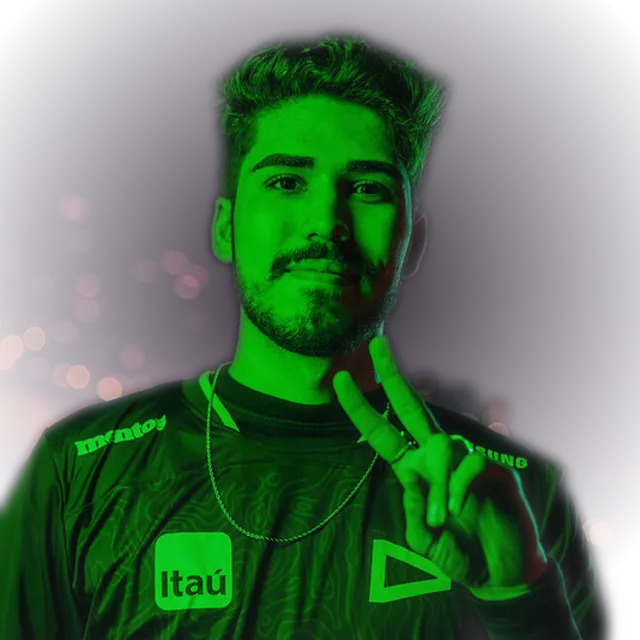
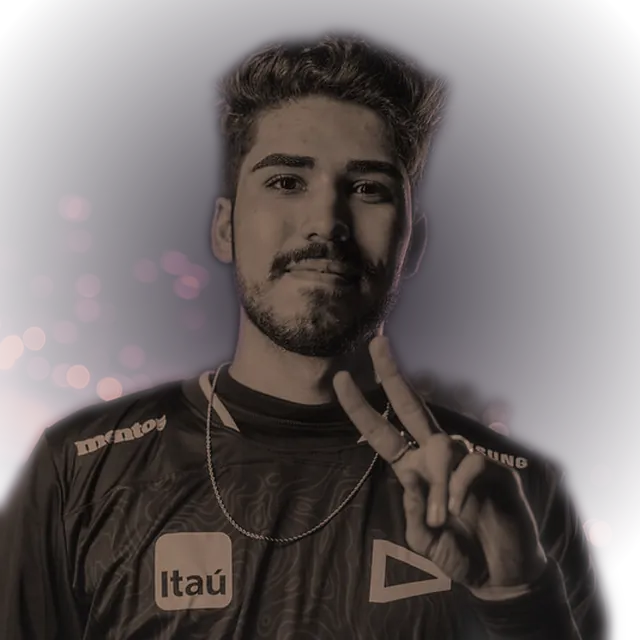
洛杉矶 2023: aspas's frontal frame with LOUD's green light toned warm (owner's pick)
Picks take tone: "warm" (luminance with a warm skin tint before softening). The picker also ranks a
colour-lit face (skin far from natural) behind any naturally lit frame of the player, and flags a pick
that had to leave its session for it.

diff --git a/scripts/check_losangeles2023.ts b/scripts/check_losangeles2023.ts
@@ -31,6 +31,8 @@ const jinggg = faces[LOS_ANGELES_CARDS.findIndex(c => c.ign === 'Jinggg')]
 ok('Jinggg 固定为第一版：原图、第一版卡面效果，不抠图不调色', !!jinggg.keep && jinggg.style === 'raw' && jinggg.cutout === false && jinggg.photo === '53105604568')
 ok('其余 79 张都是柔和融合（人原色，背景压成落日色），都抠出了人', faces.filter(f => !f.keep).every(f => f.style === 'soft' && f.cutout === true))
 ok('whzy 用的是他自己那组照片（16:31），不是被说明写成 whz 的 Biank（16:35 那张）', faces[LOS_ANGELES_CARDS.findIndex(c => c.ign === 'whzy')].photo !== '53102991504')
+{ const a = faces[LOS_ANGELES_CARDS.findIndex(c => c.ign === 'aspas')] as { photo?: string; toned?: string; confirmed?: boolean }
+  ok('aspas 用主人选的正脸，绿光去掉调成暖色', a.photo === '53098394136' && a.toned === 'warm' && !!a.confirmed) }
 ok('Yuicaw 那张双人照主人确认过，抠图后只剩他', !!faces[LOS_ANGELES_CARDS.findIndex(c => c.ign === 'Yuicaw')].confirmed)
 ok('队名按当届：DRX、Giants（不是后来的 KRX、GX）', by('MaKo').clubTag === 'DRX' && by('Cloud').clubTag === 'GIA'
   && !LOS_ANGELES_CARDS.some(c => c.clubTag === 'KRX' || c.clubTag === 'GX'))

diff --git a/scripts/losangeles2023_faces.py b/scripts/losangeles2023_faces.py
@@ -26,7 +26,8 @@ cutout didn't look right either, 柔和融合 chosen of five): the player as sho
 scripts/person_cutout.swift (Vision's person instance mask, the person under the face), over his own frame
 mapped into the sunset palette, darkened and dissolving outward; teammates are masked out of it.
 Overrides by hand: scripts/cache/losangeles2023_face_picks.json
-({ vlrId: { "id": <photo>, "side": "L"|"R"?, "confirmed": true, "keep": true?, "note": ... } }).
+({ vlrId: { "id": <photo>, "side": "L"|"R"?, "confirmed": true, "keep": true?, "tone": "warm"?, "note": ... } }).
+`tone: "warm"` tones a colour-lit frame out (luminance, warm tint) before it is softened (aspas).
 `keep` is the owner pinning a card as it is (Jinggg, 2026-10-18): his first-version image — the frame as
 shot, no cutout, no grade — and the first-version face style (`style: "raw"`). Never change a kept card.
 """
@@ -258,6 +259,10 @@ def sheet() -> int:
 # The light on a player's face, read off the middle of the face box (a jersey's colour doesn't count),
 # against the median skin of all 80 frames: the picker prefers the most naturally lit frame of a session.
 SKIN = (0.4385, 0.3075, 0.255)
+# a face this far from natural skin was lit in a colour (aspas's three frames under LOUD's green light read
+# 0.5–1.3): such a frame only wins when the player has no naturally lit one — the 柔和融合 keeps his colours
+# as shot, so a green face stays green on the card (owner, 2026-10-18: 为什么aspas脸是绿的)
+CAST_MAX = 0.35
 
 
 def skin_share(photo: Image.Image, face: dict | None) -> tuple[float, float, float] | None:
@@ -275,6 +280,13 @@ def skin_share(photo: Image.Image, face: dict | None) -> tuple[float, float, flo
 # frame — its light kept, its colour mapped into the card's night-plum-to-peach sunset and darkened, fading out
 # from the middle so the art shows around him. Anyone else in the frame is taken out of that background.
 PALETTE = ((23, 19, 30), (70, 32, 58), (168, 74, 66), (236, 150, 98), (255, 222, 170))
+
+
+def warm(photo: Image.Image) -> Image.Image:
+    """a frame lit in a colour, toned out: its luminance with a warm skin tint (picks `tone: "warm"`, aspas)"""
+    import numpy as np
+    lum = np.asarray(photo.convert("RGB")).astype(np.float32) @ np.array([.299, .587, .114], np.float32)
+    return Image.fromarray(np.stack([np.clip(lum * t, 0, 255) for t in (1.12, 0.92, 0.78)], -1).astype(np.uint8))
 
 
 def soften(raw: Image.Image, cut: Image.Image, others: Image.Image | None) -> Image.Image:
@@ -361,7 +373,7 @@ def crop() -> int:
         if not options and vid not in hand:
             continue
         verdicts = {pid: verdict(f"flickr-{pid}.jpg", boxes, 2 if pid in sides else 1) for pid in options}
-        clean = sorted((pid for pid in options if verdicts[pid] is None), key=lambda q: (q in sides, -company(q, vid), cast(q, sides.get(q)), -gap(q, vid)[0]))
+        clean = sorted((pid for pid in options if verdicts[pid] is None), key=lambda q: (q in sides, cast(q, sides.get(q)) > CAST_MAX, -company(q, vid), cast(q, sides.get(q)), -gap(q, vid)[0]))
         h = hand.get(vid, {})
         pid = h.get("id") or (clean[0] if clean else options[0])
         side = h.get("side") or sides.get(pid)
@@ -377,6 +389,9 @@ def crop() -> int:
             notes.append("候选照片都不是干净的照片：" + "；".join(f"{p} {w}" for p, w in verdicts.items()))
         elif len(options) < 2:
             notes.append("只有一张写着他名字的照片")
+        if not h.get("id") and clean and pid != sorted(clean, key=lambda q: (q in sides, -company(q, vid)))[0] and company(pid, vid) <= 0 and not confirmed:
+            notes.append("同组的照片打了彩色光，换成了光线正常的这张，它不在同一组里，请确认是他")
+            doubtful = True
         if h.get("note"):
             notes.append(h["note"])
         sure = confirmed or (bool(clean) and verdicts.get(pid) is None and not doubtful and not side and not h.get("unsure"))
@@ -414,6 +429,9 @@ def crop() -> int:
             (square(photo, face) if face else photo.resize((SIDE, SIDE))).save(OUT / f"event-{vid}.webp", "WEBP", quality=84)
             continue
         out[vid].update(style="soft", cutout=True)
+        if hand.get(vid, {}).get("tone") == "warm":
+            photo = warm(photo)
+            out[vid]["toned"] = "warm"
         rest = CUT / f"{vid}-others.png"
         soften(square(photo, face), square(Image.open(cut).convert("RGBA"), face),
                square(Image.open(rest), face) if rest.exists() else None).save(OUT / f"event-{vid}.webp", "WEBP", quality=80, alpha_quality=100, method=6)
